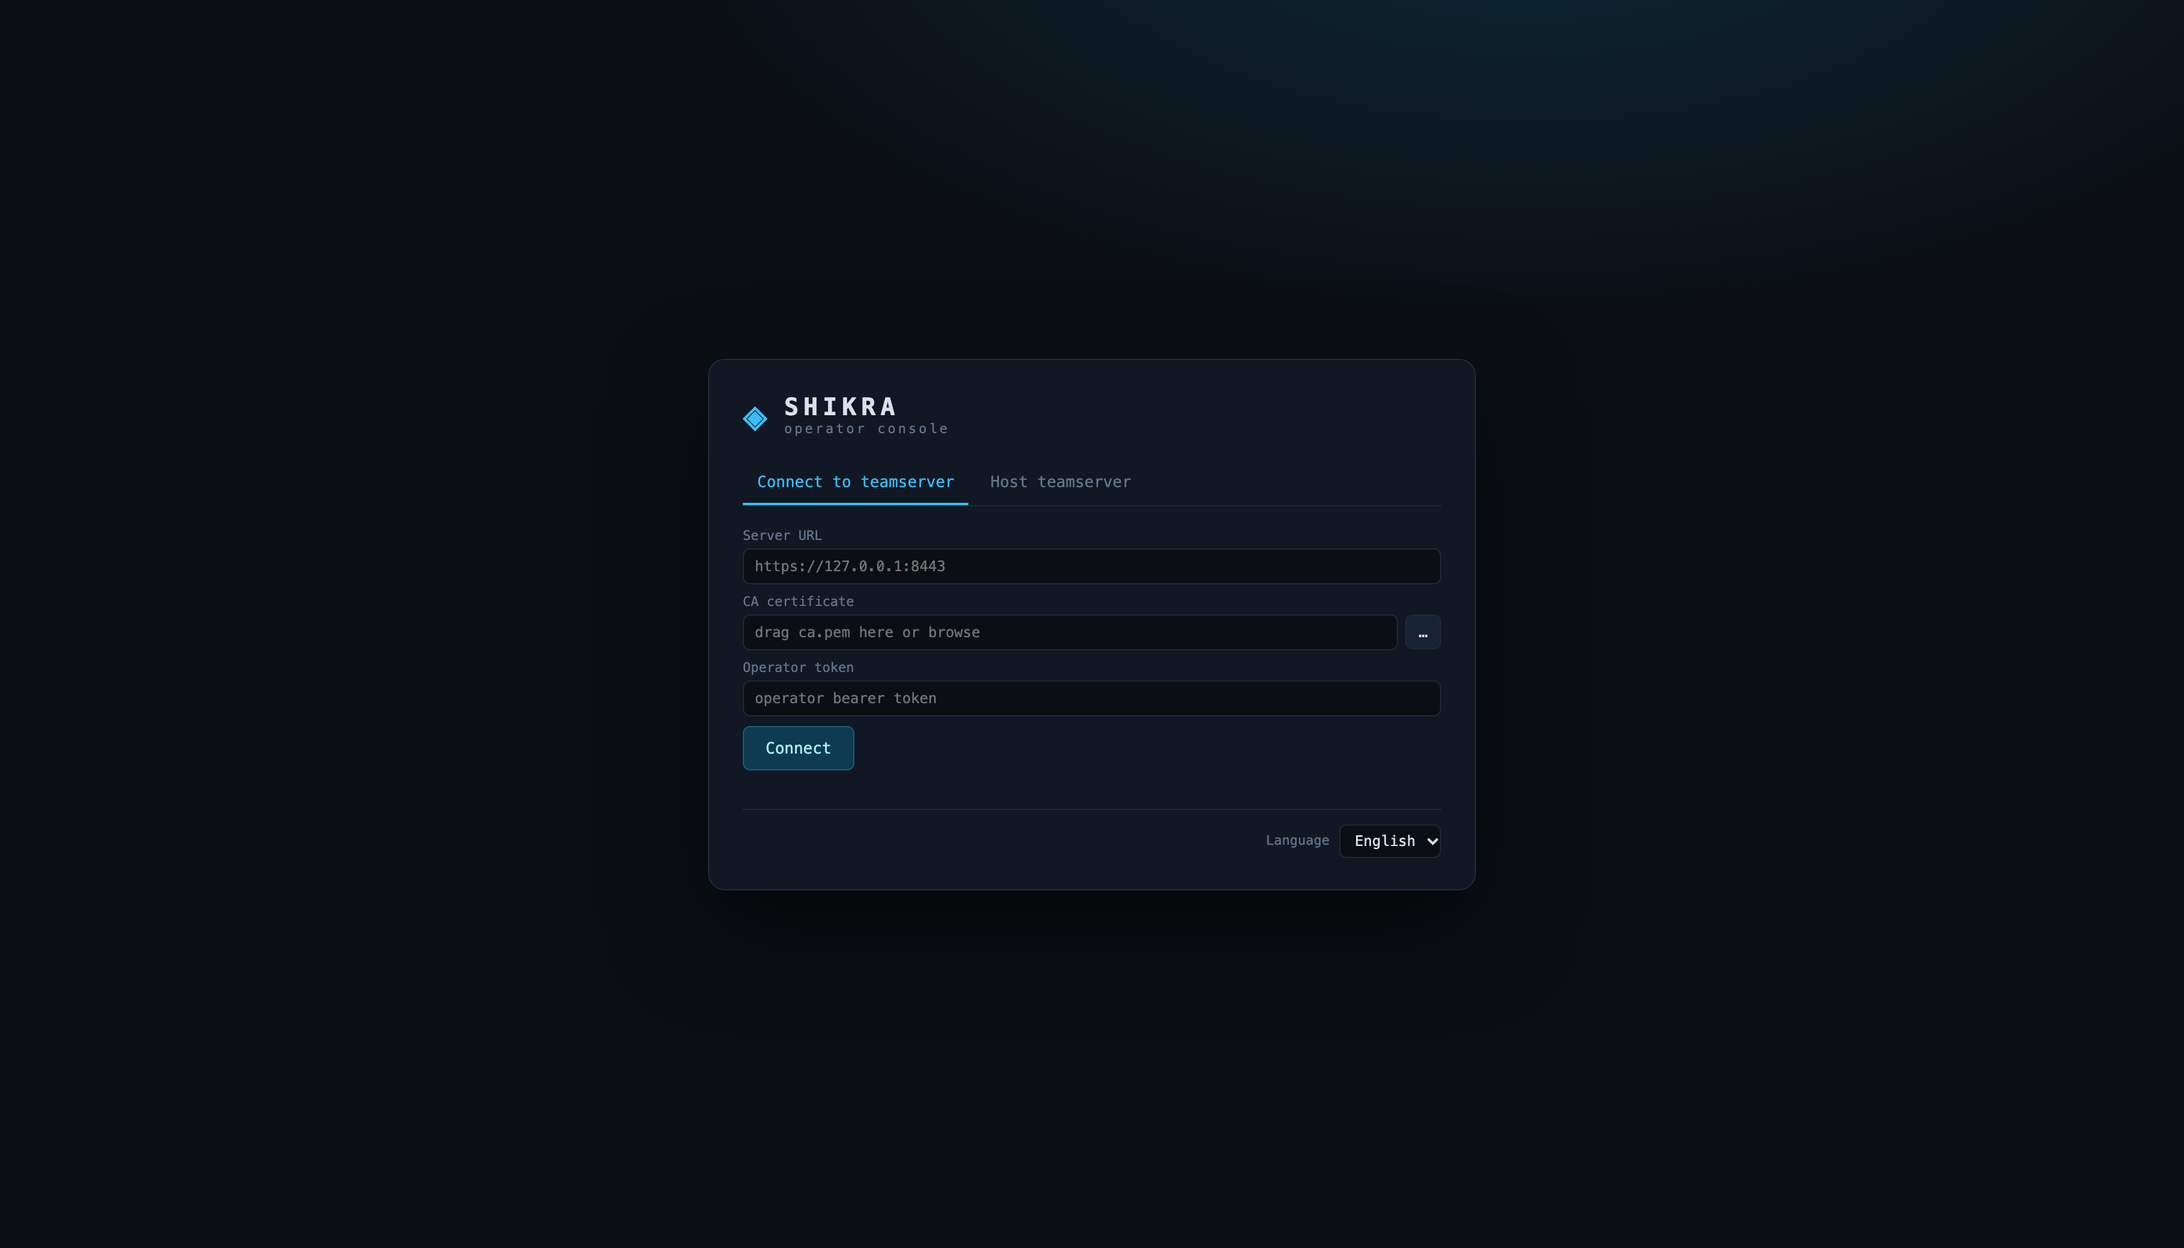
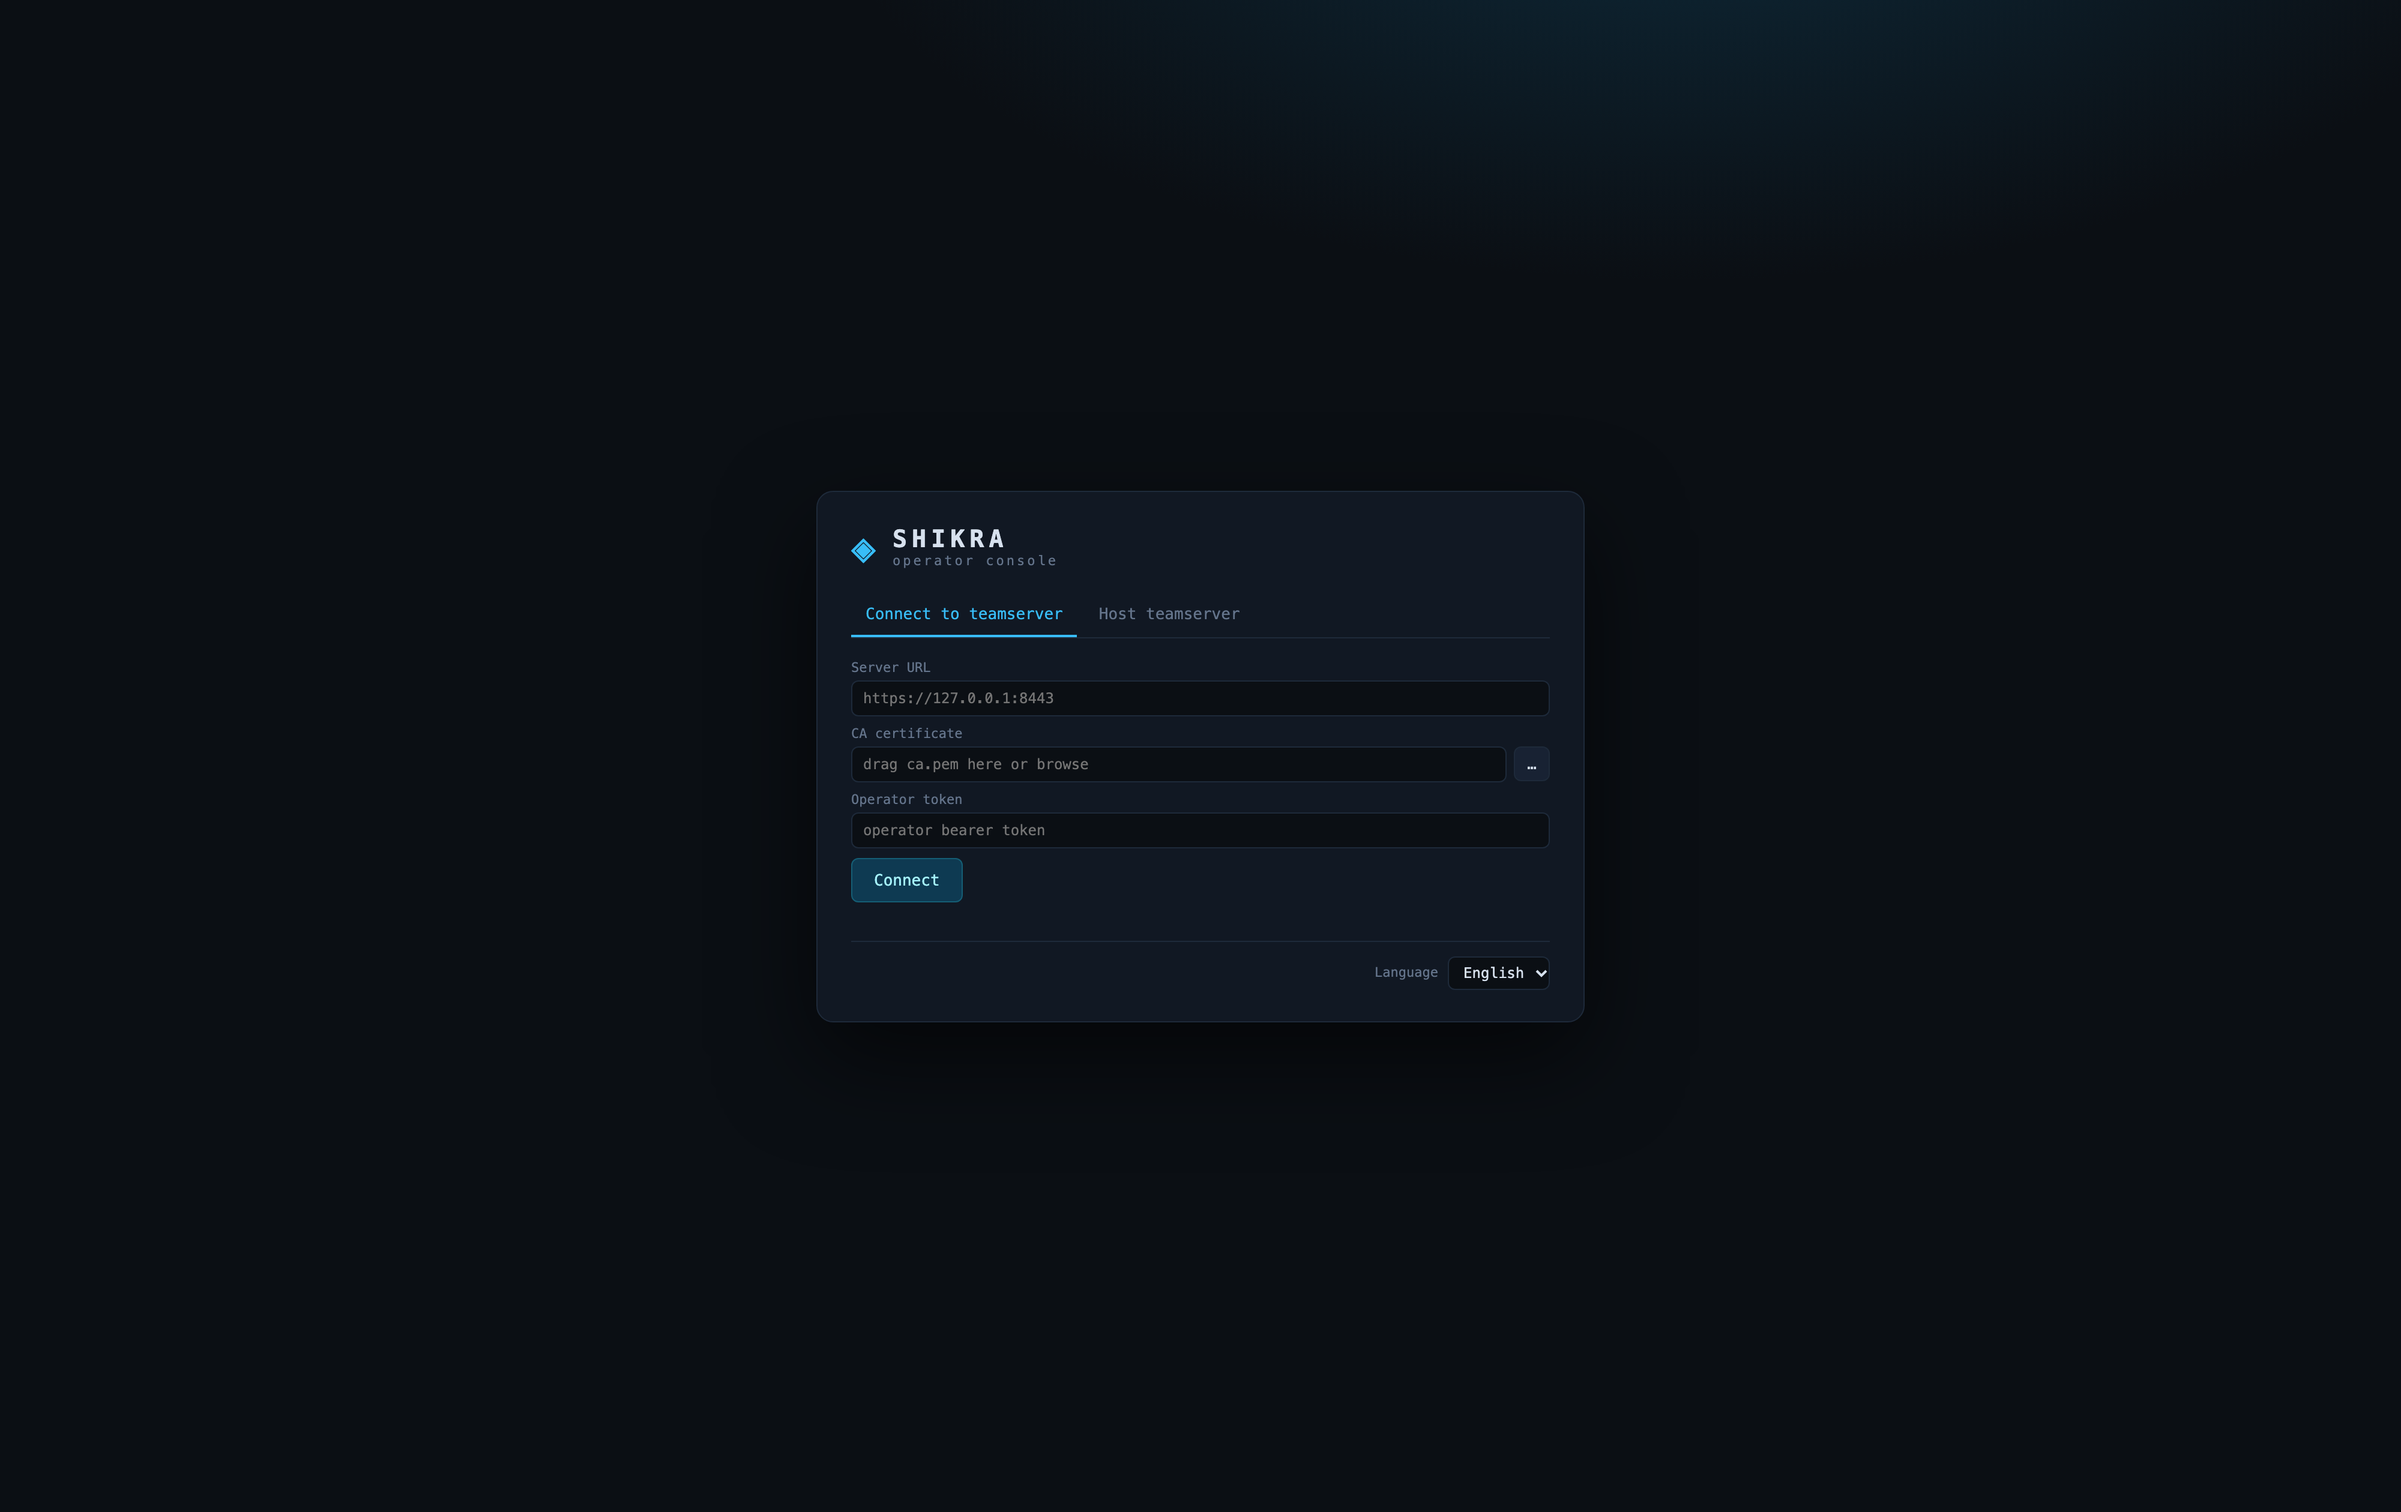
docs: copilot section, refreshed console screenshots
- README: new AI copilot section (tier table, console screenshot, CLI
  examples, configuration precedence)
- CHANGELOG: Unreleased entries for the copilot surface, runtime
  approval hook, provenance tags, sequence self-healing and the larger
  transport limits
- refresh console screenshots with the Copilot tab and add the copilot
  panel capture

diff --git a/README.md b/README.md
@@ -263,6 +263,44 @@ A curated slice of what a session accepts (see
 | Team | `operators`, `operator-add`, `operator-del`, `creds`, `loot`, team canaries |
 | AI | `ai` — tool-calling operator behind an approval gate |
 
+## 🤖 AI copilot
+
+Shikra ships an agentic operator that plans with an OpenAI-compatible model
+(DeepSeek, OpenAI, OpenRouter, vLLM, Ollama…) and executes the same tool
+surface from the console and the CLI. Every call passes through a three-tier
+approval gate:
+
+| Tier | Tools | Behaviour |
+| --- | --- | --- |
+| **read-only** | `list_sessions`, `session_info`, `list_tasks`, `list_listeners`, `list_pivots`, `list_extensions`, `list_credentials`, `list_loot`, `fs_ls`, `fs_cat`, `ps`, `netstat`, `ifconfig`, `env_dump`, `wasm_list` | always allowed |
+| **mutating** | `run_shell`, `fs_upload`, `fs_download`, `portscan`, `screenshot` | needs `--auto-approve`, or one click in the console |
+| **destructive** | `bof_run`, `wasm_load`, `wasm_run`, `listener_start`, `listener_stop` | needs `--auto-approve --allow-destructive` or explicit approval — unknown tools default here |
+
+<p align="center">
+  <img src="docs/assets/console-copilot.png" alt="Shikra Copilot — plan, tool cards and the approval gate" width="100%">
+</p>
+
+The console panel streams every step: the plan, tool cards with risk badges,
+arguments and results, and an approve/deny card whenever the gate requires a
+human decision. Denied calls are fed back to the model, which adapts or
+reports honestly instead of retrying blindly; tasks it launches are tagged
+`ai_initiated` and surface as `[ai]` in `shikra-client tasks`.
+
+```sh
+# One-shot: read-only recon runs automatically, shell waits for the flag.
+shikra-client ai "Triage the first session: identity, OS and interfaces."
+
+# Full agentic REPL.
+export SHIKRA_LLM_BASE_URL=https://api.deepseek.com/v1
+export SHIKRA_LLM_API_KEY=sk-…        # or set it in the console panel
+export SHIKRA_LLM_MODEL=deepseek-flash
+shikra-client ai --auto-approve
+```
+
+The same settings live in the console's **✦ Copilot** tab (persisted in the
+console config with `0600`); `SHIKRA_LLM_*` environment variables take
+precedence.
+
 ## 🛡 Hardening & OPSEC
 
 - Compile-time string obfuscation (`shikra-obf`) with random per-build seeds.
@@ -324,7 +362,7 @@ cd gui && cargo tauri build    # bundle
 | `SHIKRA_DNS_ADDR`, `SHIKRA_WG_ADDR`, `SHIKRA_DNS_ZONE` | UDP transports |
 | `SHIKRA_LOG_FORMAT` | `text` or `json` |
 | `SHIKRA_DNS_RESOLVER`, `SHIKRA_PUBLIC_IP` | Registration helpers |
-| `SHIKRA_LLM_BASE_URL`, `SHIKRA_LLM_MODEL` | AI copilot backend |
+| `SHIKRA_LLM_BASE_URL`, `SHIKRA_LLM_MODEL`, `SHIKRA_LLM_API_KEY`, `SHIKRA_LLM_TEMPERATURE` | AI copilot backend (override the console panel) |
 
 ## 📦 Releases & supply chain
 

diff --git a/CHANGELOG.md b/CHANGELOG.md
@@ -7,6 +7,34 @@ and this project adheres to [Semantic Versioning](https://semver.org/spec/v2.0.0
 
 ## [Unreleased]
 
+### Added
+
+- **AI copilot console panel** — a visual agentic operator with streaming tool
+  cards, an interactive approve/deny gate and risk-tier badges. It shares the
+  25-tool surface and risk policy with `shikra-client ai` and is configurable
+  per console (provider URL, model, API key) or with `SHIKRA_LLM_*`.
+- **Expanded AI tool surface** — session introspection (`session_info`,
+  `list_tasks`), fleet overview (`list_listeners`, `list_pivots`,
+  `list_extensions`, `list_credentials`, `list_loot`), target recon (`ps`,
+  `netstat`, `ifconfig`, `env_dump`), `portscan`, `screenshot` (saved on the
+  operator host) and listener control (`listener_start`, `listener_stop`).
+- **AI provenance** — tasks submitted by the copilot carry an `ai_initiated`
+  flag and show up as `[ai]` in `shikra-client tasks`.
+- **Runtime approval hook for the agent loop** — `AgenticLoop` accepts an
+  async `Approver`, letting interfaces gate individual calls the policy does
+  not auto-approve (used by the console panel).
+
+### Fixed
+
+- **Sessions self-heal after lost requests** — the receive sequence demanded
+  exact ordering, so a single dropped or rejected poll (for example an
+  oversized task result answered with HTTP 413) permanently bricked the
+  session with 401s. Receivers now tolerate bounded sequence gaps (4096) and
+  still reject replays.
+- **Large task results over the beacon transport** — the HTTP beacon body
+  limit was axum's 2 MiB default; it is now 32 MiB, and the gRPC and QUIC
+  frame limits were raised to match, so multi-megabyte screenshots transfer.
+
 ## [0.1.0] - 2026-10-10
 
 Initial public release.
